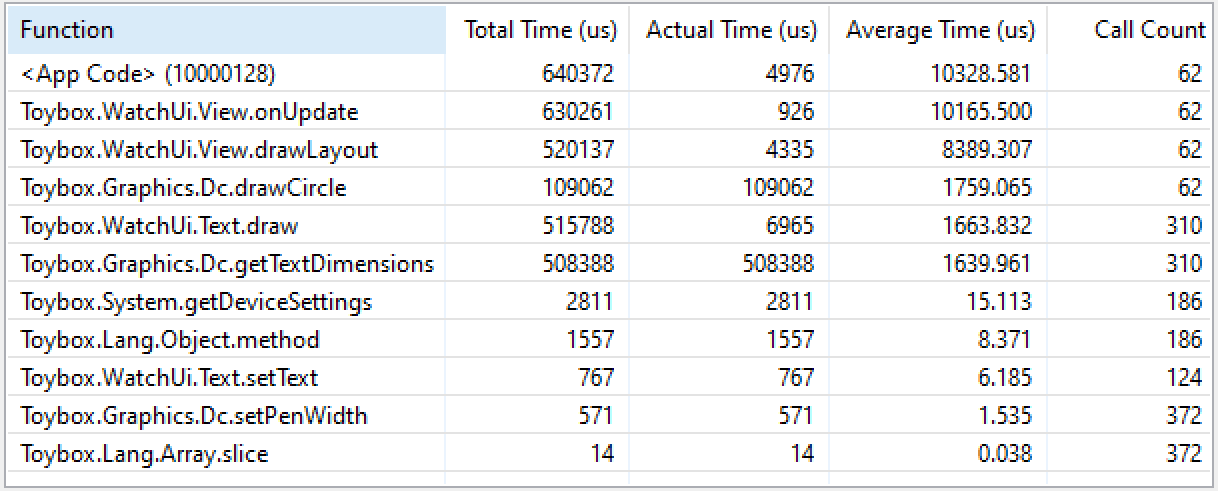
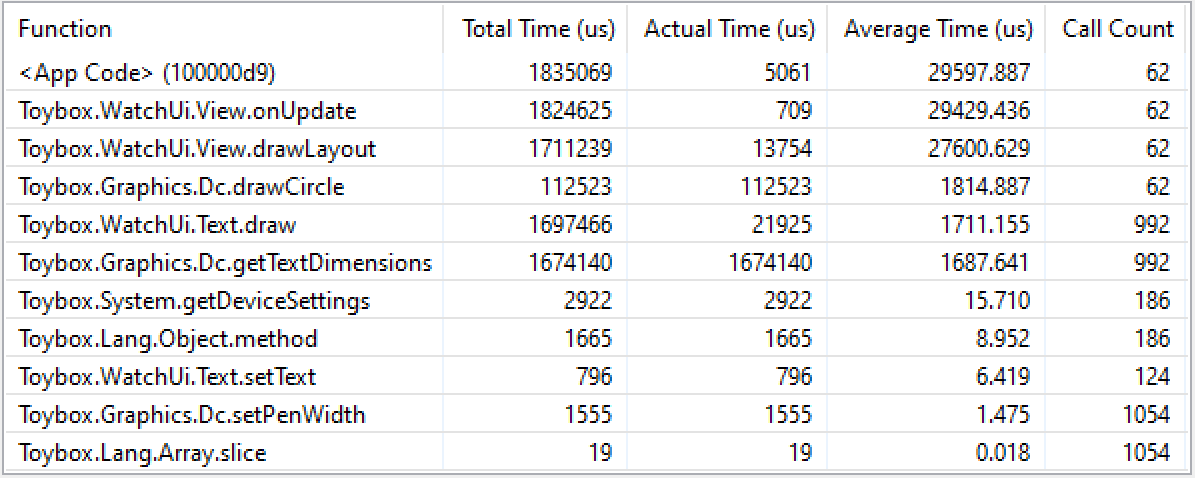
even worse performing example

diff --git a/README.md b/README.md
@@ -8,19 +8,19 @@ Here is one 62 second of profiling:
 
 ![Profiling 62 seconds](./profiling-62seconds.png)
 
-In above you see that OnUpdate gets called 62 times, once per second, yet it takes 10ms on average. Updating just the second should not take 10ms, it should be around 2ms.
+In above you see that OnUpdate gets called 62 times, once per second, yet it takes 29ms on average. Updating just the second should not take that long, it should be constant redraw of buffer for background and then text update.
 
-You can also verify it's bad by just adding more static text. Which seems to make the on average time worse, even though it should be buffered if layout engine is well done.
+You can also verify it's bad by just adding more static text like in background. Which seems to make the on average time worse linearly, even though it should be buffered if layout engine is well done.
 
 ## What the example looks like in emulator
 
-![Example screenshot in emulator](./watch-face.jpg)
+<img src="./watch-face.jpg" height="300" alt="Example screenshot" />
 
 ## Test
 
 1. Get Garmin SDK with [Garmin SDK Manager](https://developer.garmin.com/connect-iq/sdk/)
 2. Open the project in VSCode, install recommended extensions.
-3. Click on the VSCode's Start Debugging (in Launch), or F5
+3. Click on the VSCode's Start Debugging (in Launch), or F5. Or if you want optimized build using Ctrl+Shift+P and search for "Build and Run Optimized project..."
 
 ## License
 
